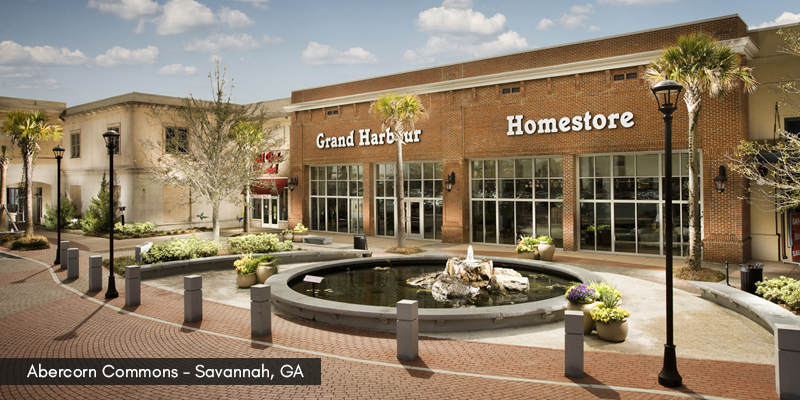
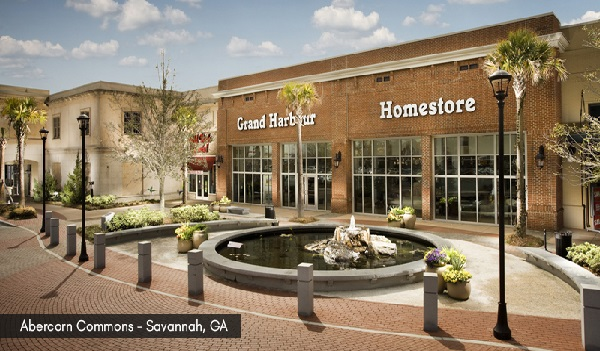
slick carousel without css

diff --git a/client/src/components/Jumbotron/index.js b/client/src/components/Jumbotron/index.js
@@ -2,6 +2,7 @@ import React from "react";
 import Slider from "react-slick";   
 import "slick-carousel/slick/slick.css";
 import "slick-carousel/slick/slick-theme.css";
+import "./style.css";
 
 function Jumbotron(){
     var settings = {dots: true,
@@ -9,22 +10,24 @@ function Jumbotron(){
         speed: 500,
         slidesToShow: 1,
         slidesToScroll: 1,
-        autoplay:true,
+        autoplay:true, 
         autoplaySpeed:1500
     }
 return(
+    <div className = "slideShow">
 <Slider {...settings}>
     <div>
-        <img src={process.env.PUBLIC_URL+ '/assests/storefront1.jpg'} height = "500px" width = "600px" ></img>
+        <img src={process.env.PUBLIC_URL+ '/assests/storefront1.jpg'}></img>
     </div>
     <div>
-        <img src={process.env.PUBLIC_URL+ '/assests/storefront2.jpg'} height = "500px" width = "600px"></img>
+        <img src={process.env.PUBLIC_URL+ '/assests/storefront2.jpg'}></img>
     </div>
     <div>
-        <img src={process.env.PUBLIC_URL+ '/assests/storefront3.jpg'} height = "500px" width = "600px"></img>
+        <img src={process.env.PUBLIC_URL+ '/assests/storefront3.jpg'}></img>
     </div>
 
 </Slider>
+</div>
 )
 }
 

diff --git a/client/src/pages/home.js b/client/src/pages/home.js
@@ -5,10 +5,10 @@ import Jumbotron from "../components/Jumbotron"
 import "slick-carousel/slick/slick.css";
 import "slick-carousel/slick/slick-theme.css";
 
-function Home(){
+function Home(props){
     return(
         <div className="container">
-        <Navbar></Navbar>
+        <Navbar accountName = {props.accountName}></Navbar>
         <Jumbotron></Jumbotron>
         <Footer></Footer>
         </div>  

diff --git a/client/src/components/Footer/style.css b/client/src/components/Footer/style.css
@@ -1,14 +1,10 @@
 .footer {
-  min-height: 100px;
-  background: #E5E5E5;
-  position: relative;
+  bottom: 0;
+  text-align: center;
+  height: 40px;
+  background: #b8b8b8;
+  position: absolute;
+  width: 100%;
 }
 
-.footer span {
-  position: absolute;
-  bottom: 0;
-  left: 0;
-  right: 0;
-  padding: 3px;
-  background: #B8B8B8;
-}
+

diff --git a/client/src/App.js b/client/src/App.js
@@ -16,7 +16,7 @@ import Jumbotron from "./components/Jumbotron"
 class App extends Component {
   render() {
     return (
-     <Home></Home>
+     <Home accountName = "MattF"></Home>
     )
   }
 }

diff --git a/client/src/components/Jumbotron/style.css b/client/src/components/Jumbotron/style.css
@@ -1,0 +1,4 @@
+.slick-track{
+   margin: auto;
+}
+
